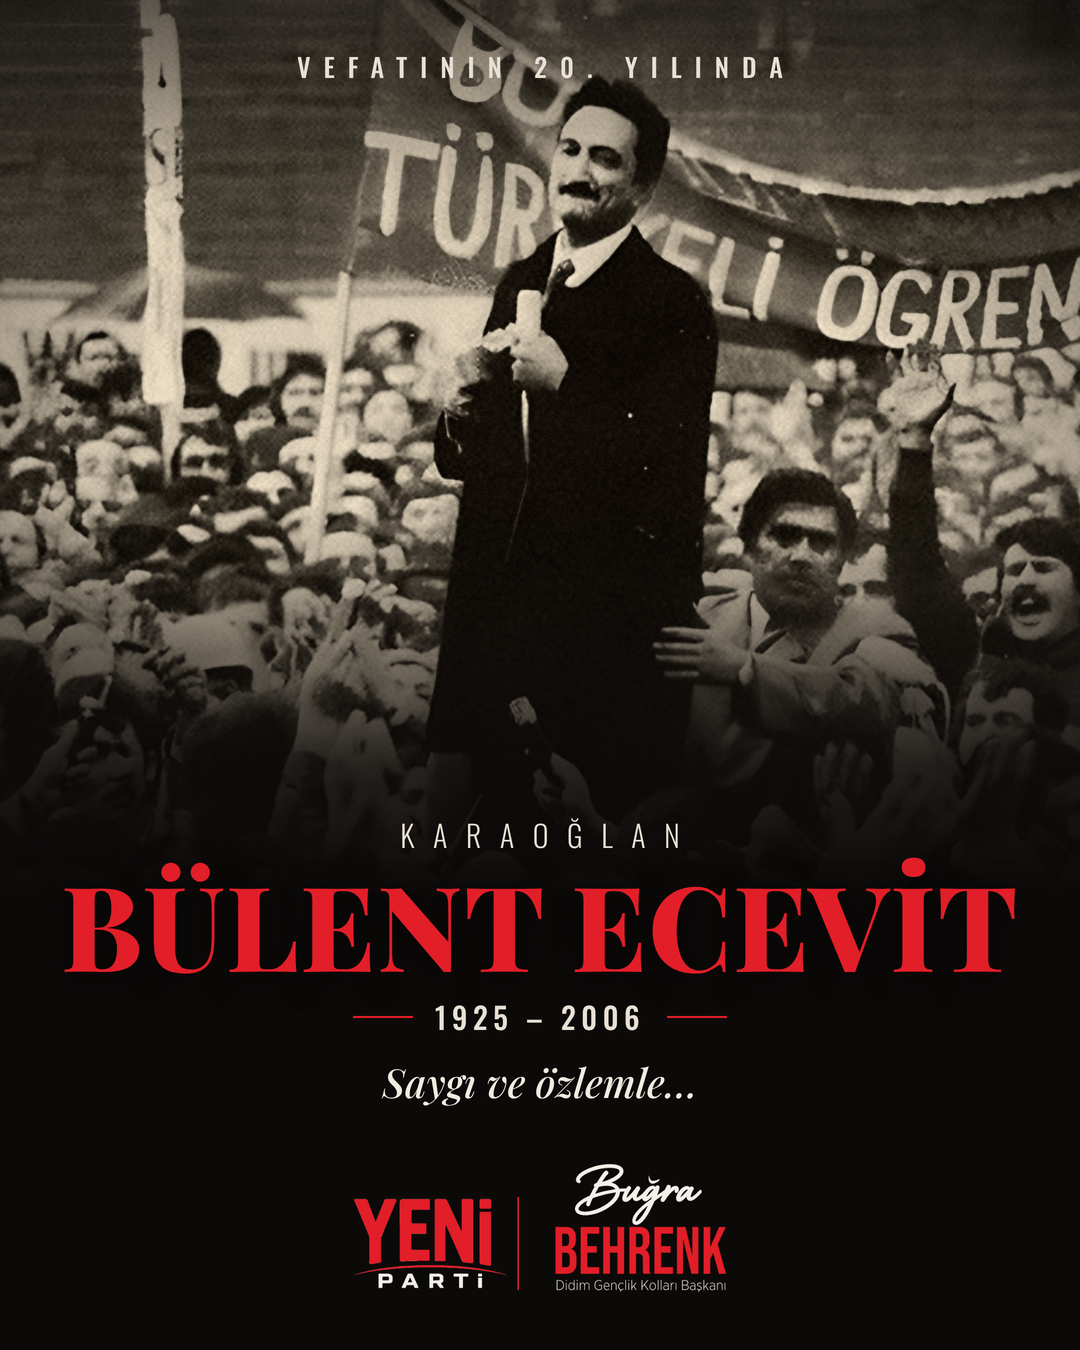
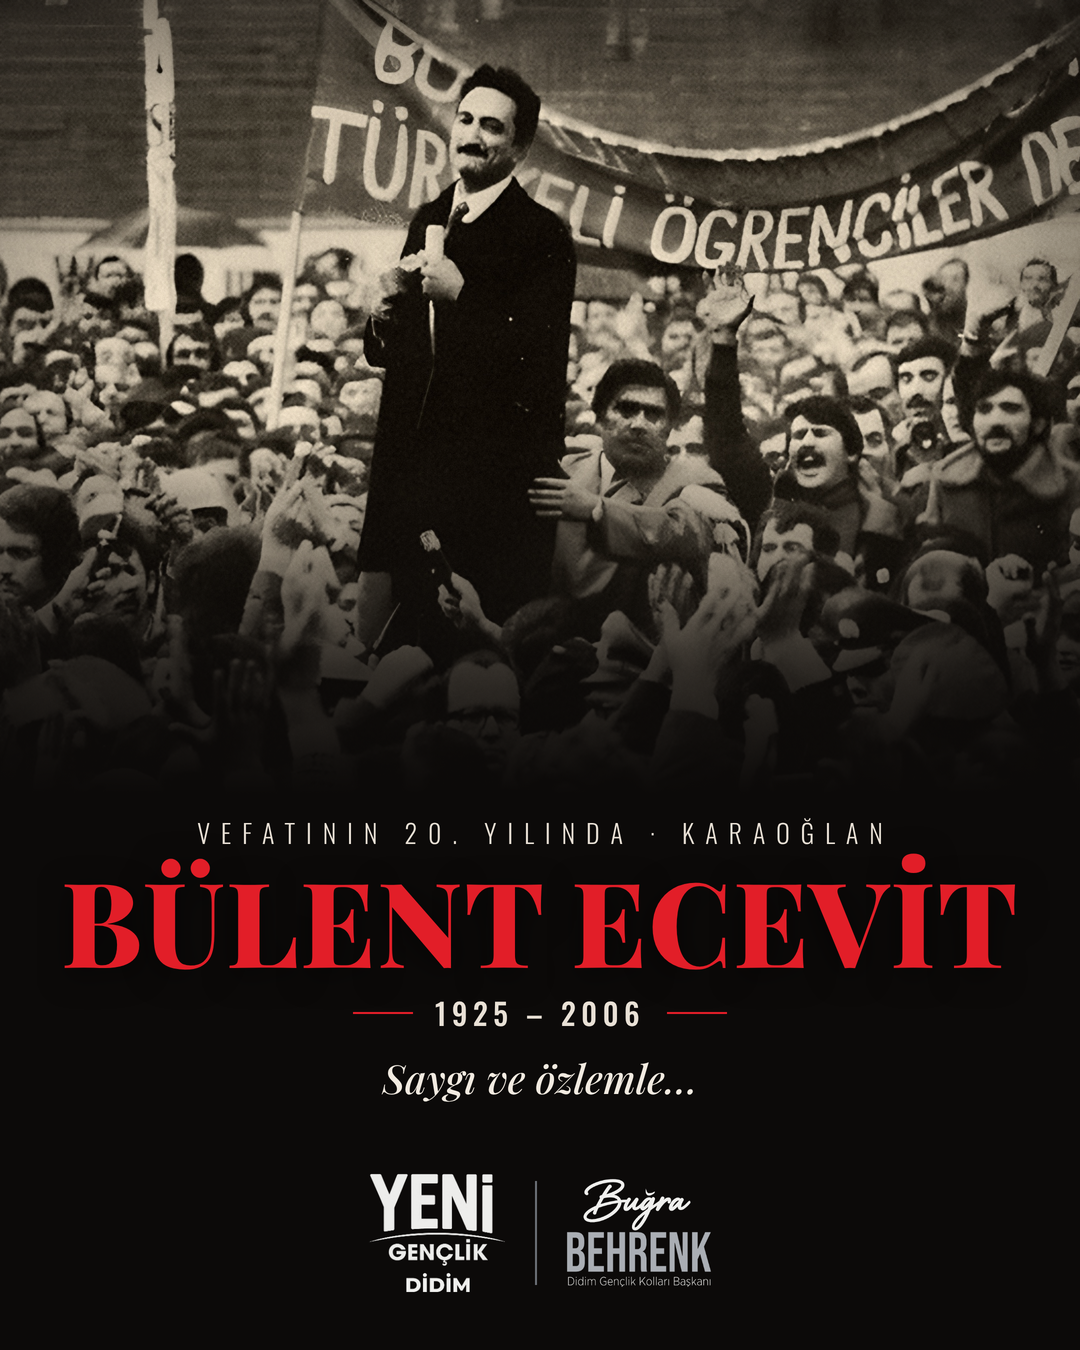
Ecevit postu: pankart tam görünür, Yeni Gençlik Didim logosu, gri-beyaz imza
Claude-Session: https://claude.ai/code/session_01SatttGbgBLoCnk9KGLypWv

diff --git a/tasarim/kisisel/ecevit/ecevit.html b/tasarim/kisisel/ecevit/ecevit.html
@@ -4,29 +4,28 @@
 @font-face{font-family:O5;src:url(../../fontlar-gecici/Oswald-500.ttf)}
 @font-face{font-family:O3;src:url(../../fontlar-gecici/Oswald-300.ttf)}
 html,body{margin:0;width:1080px;height:1350px;overflow:hidden;background:#0b0908}
-.foto{position:absolute;left:0;top:0;width:1080px;height:900px;overflow:hidden}
-.foto img{position:absolute;width:1760px;left:-360px;top:-10px}
+.foto{position:absolute;left:0;top:0;width:1080px;height:796px;overflow:hidden}
+.foto img{position:absolute;width:1320px;left:-232px;top:0}
 .foto::after{content:"";position:absolute;inset:0;background:
- linear-gradient(180deg,rgba(11,9,8,.55) 0%,rgba(11,9,8,0) 22%,rgba(11,9,8,0) 55%,rgba(11,9,8,.85) 85%,#0b0908 100%),
+ linear-gradient(180deg,rgba(11,9,8,.35) 0%,rgba(11,9,8,0) 14%,rgba(11,9,8,0) 52%,rgba(11,9,8,.8) 84%,#0b0908 100%),
  radial-gradient(ellipse 70% 80% at 50% 40%,transparent 50%,rgba(11,9,8,.6) 100%)}
 .gren{position:absolute;inset:0;opacity:.18;mix-blend-mode:overlay}
 .ust{position:absolute;left:0;right:0;top:54px;text-align:center;font:26px/1 O5;letter-spacing:.5em;padding-left:.5em;color:#e9e1d6}
 .blok{position:absolute;left:0;right:0;top:820px;text-align:center}
-.karaoglan{font:30px/1 O3;letter-spacing:.62em;padding-left:.62em;color:#e9e1d6}
+.karaoglan{font:26px/1 O3;letter-spacing:.42em;padding-left:.42em;color:#e9e1d6}
 .ad{margin-top:14px;font:118px/1 PF;color:#E21E28;letter-spacing:.01em;text-shadow:0 6px 30px rgba(0,0,0,.6)}
 .yil{margin-top:20px;display:flex;justify-content:center;align-items:center;gap:22px;font:30px/1 O5;letter-spacing:.18em;color:#e9e1d6}
 .yil i{width:60px;height:2px;background:#E21E28;display:block}
 .soz{margin-top:26px;font:40px/1.2 PI;color:#f2ebe1}
-.imza{position:absolute;left:50%;bottom:58px;height:128px;transform:translateX(-50%)}
+.imza{position:absolute;left:0;right:0;bottom:58px;display:flex;justify-content:center;align-items:center;gap:30px}.imza .lg{height:118px}.imza .ay{width:2px;height:104px;background:#6b6f75}.imza .is{height:108px}
 </style><body>
 <div class="foto"><img src="ecevit-ton.jpg"></div>
 <svg class="gren" width="1080" height="1350"><filter id="g"><feTurbulence type="fractalNoise" baseFrequency=".85" numOctaves="2" seed="7"/><feColorMatrix type="saturate" values="0"/></filter><rect width="1080" height="1350" filter="url(#g)"/></svg>
-<div class="ust">VEFATININ 20. YILINDA</div>
 <div class="blok">
- <div class="karaoglan">KARAOĞLAN</div>
+ <div class="karaoglan">VEFATININ 20. YILINDA · KARAOĞLAN</div>
  <div class="ad">BÜLENT ECEVİT</div>
  <div class="yil"><i></i>1925 – 2006<i></i></div>
  <div class="soz">Saygı ve özlemle…</div>
 </div>
-<img class="imza" src="imza-beyaz-kirmizi.png">
+<div class="imza"><img class="lg" src="logo-genclik-beyaz.png"><span class="ay"></span><img class="is" src="imza-isim-gri.png"></div>
 </body></html>
